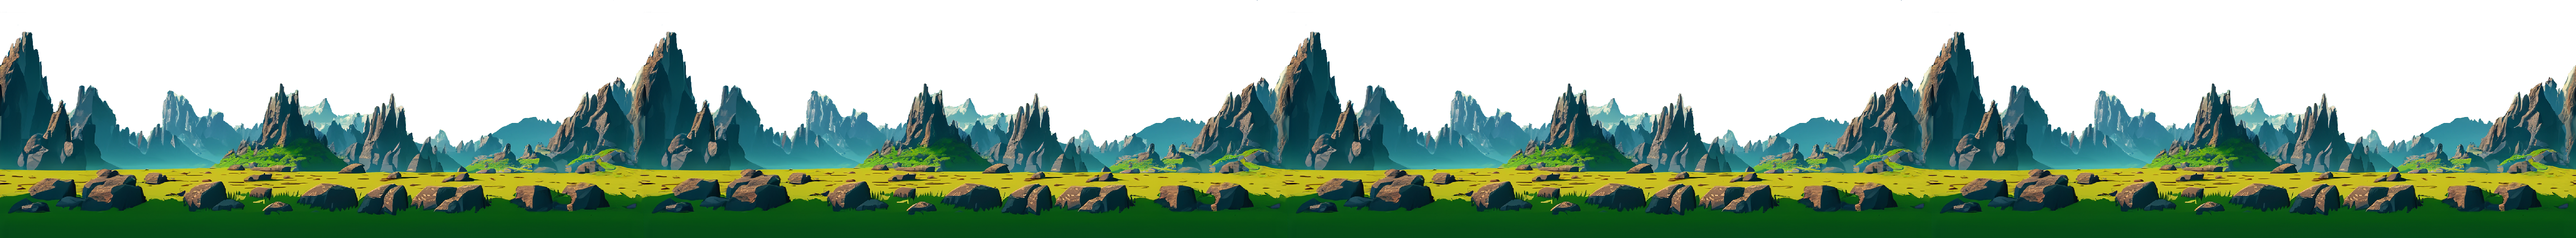
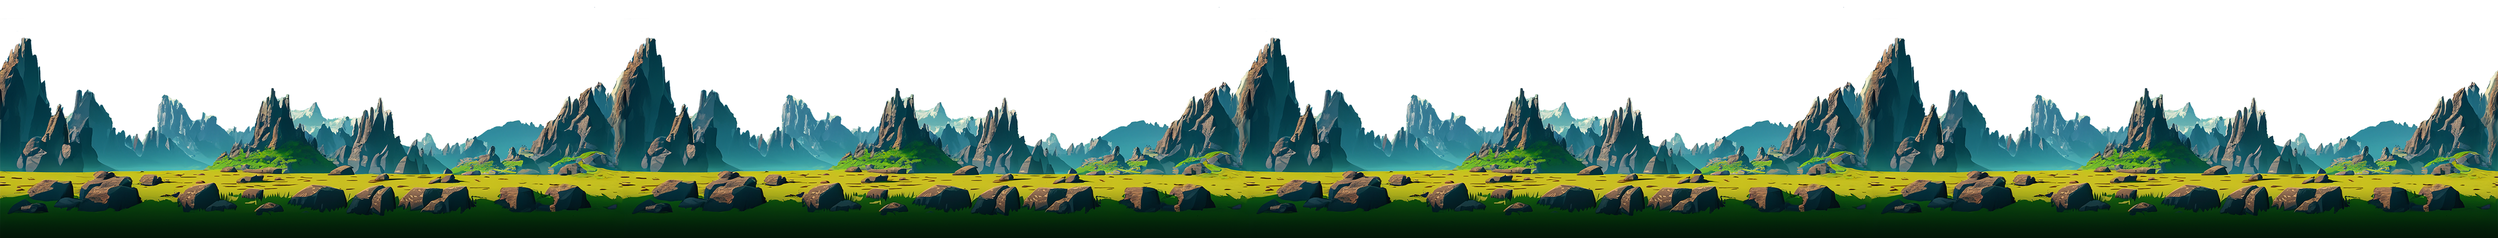
adjusting cloud speeds and layering of background

diff --git a/script/levels/level1.js b/script/levels/level1.js
@@ -1,6 +1,8 @@
 function loadLevel(levelNumber) {
     if (levelNumber === 1) {
+        // constructor (enemies, clouds, backgroundObjects, air)
         return new Level(
+            // enemies
             [
                 new Enemy("ork", 1, 500 + Math.random() * 100),
                 new Enemy("ork", 1, 700 + Math.random() * 100),
@@ -8,15 +10,28 @@ function loadLevel(levelNumber) {
                 new Enemy("troll", 1, 1300 + Math.random() * 100),
                 new Endboss()
             ],
+            //clouds background
             [
-                new Cloud("../img/brawlnbounce/04_background/layers/4_clouds/background_clouds/cloud_bg_1.png", 1255 * 3, 20),
-                new Cloud("../img/brawlnbounce/04_background/layers/4_clouds/background_clouds/cloud_bg_1.png", 1255, 70),
-                new Cloud("../img/brawlnbounce/04_background/layers/4_clouds/background_clouds/cloud_bg_1.png", 10, 0)
+                new Cloud("../img/brawlnbounce/04_background/layers/4_clouds/background_clouds/cloud_bg_1.png", 1255 * 3, -70, "background"),
+                new Cloud("../img/brawlnbounce/04_background/layers/4_clouds/background_clouds/cloud_bg_2.png", 1255, 70, "background"),
+                new Cloud("../img/brawlnbounce/04_background/layers/4_clouds/background_clouds/cloud_bg_3.png", 10, 0, "background"),
+                new Cloud("../img/brawlnbounce/04_background/layers/4_clouds/background_clouds/cloud_bg_1.png", 1255 * 2, -40, "background"),
             ],
+            //clouds
+            [
+                new Cloud("../img/brawlnbounce/04_background/layers/4_clouds/cloud_1.png", 1255, 0, "foreground"),
+                new Cloud("../img/brawlnbounce/04_background/layers/4_clouds/cloud_2.png", 1755, -80, "foreground"),
+                new Cloud("../img/brawlnbounce/04_background/layers/4_clouds/cloud_3.png", 655, 20, "foreground"),
+                new Cloud("../img/brawlnbounce/04_background/layers/4_clouds/cloud_1.png", -1005, -30, "foreground"),
+            ],
+            //backgroundObjects
+            [
+                new backgroundObject("../img/brawlnbounce/04_background/layers/1_first_layer/1.png", -1255),
+            ],
+            //air
             [
                 new backgroundObject("../img/brawlnbounce/04_background/layers/air_day.png", -1255),
-                new backgroundObject("../img/brawlnbounce/04_background/layers/1_first_layer/1.png", -1255),
-            ]
+            ],
         );
     }
     return null;

diff --git a/script/models/cloud.class.js b/script/models/cloud.class.js
@@ -1,20 +1,35 @@
 class Cloud extends MovableObject {
-    height = 200;
-    width= 400;
-    speed = 0.15 + Math.random() * 0.4;
+    height;
+    width;
+    speed;
 
-    constructor(path, xOffset, yOffset) {
+    constructor(path, xOffset, yOffset, position) {
         super();
+        this.setCloudAttributes(position);
         this.loadImage(path)
+        this.position = position;
         this.y = 30 + yOffset;
         this.x = xOffset + Math.random() * 200;
         this.animate();
     }
+
+    setCloudAttributes(position) {
+        if (position === "background") {
+            this.height = 300;
+            this.width= 500;
+            this.speed = 0.005 + Math.random() * 0.4;
+        } else if (position === "foreground") {
+            this.height = 150;
+            this.width= 400;
+            this.speed = 0.01 + Math.random() * 0.5;
+        }
+    }
+
     animate() {
-        this.moveLeft(this.speed);
         setInterval(() => {
-            if (this.x < -this.width) {
-                this.x = 800 + Math.random() * 800;
+            this.moveLeft(this.speed);
+            if (this.x < - 1400) {
+                this.x = 2579;
             }
         }, 1000 / 60);
     }

diff --git a/script/models/world.class.js b/script/models/world.class.js
@@ -44,7 +44,7 @@ class World {
     draw() {
         this.ctx.clearRect(0, 0, this.canvas.width, this.canvas.height); // refresh / clear canvas before
         this.ctx.translate(this.cameraX, 0);
-        this.addObjectsToMap(this.level.backgroundObjects);
+        this.creatingBackground();
         this.addMovableObjects();
         this.ctx.translate(-this.cameraX, 0);
         this.addToMap(this.statusBar);
@@ -52,8 +52,14 @@ class World {
         requestAnimationFrame(this.draw.bind(this)); // bind(this) instead of let self = this and self.draw()
     } 
 
-    addMovableObjects() {
+    creatingBackground() {
+        this.addObjectsToMap(this.level.air);
+        this.addObjectsToMap(this.level.cloudsBackground);
+        this.addObjectsToMap(this.level.backgroundObjects);
         this.addObjectsToMap(this.level.clouds);
+    }
+
+    addMovableObjects() {
         this.addObjectsToMap(this.throwableObjects);
         this.addObjectsToMap(this.level.enemies);
         this.addToMap(this.character);

diff --git a/script/models/level.class.js b/script/models/level.class.js
@@ -1,12 +1,16 @@
 class Level {
     enemies;
+    cloudsBackground;
     clouds;
+    air;
     backgroundObjects;
-    levelEndX = 2100;
+    levelEndX = 2300;
 
-    constructor(enemies, clouds, backgroundObjects) {
+    constructor(enemies, cloudsBackground, clouds, backgroundObjects, air) {
         this.enemies = enemies;
+        this.cloudsBackground = cloudsBackground;
         this.clouds = clouds;
         this.backgroundObjects = backgroundObjects;
+        this.air = air;
     }
 }

diff --git a/script/models/movable_object.class.js b/script/models/movable_object.class.js
@@ -74,8 +74,6 @@ class MovableObject extends DrawableObject {
             if (this.isAboveGround() || this.speedY > 0) {
                 this.y -= this.speedY
                 this.speedY -= this.acceleration; 
-                console.log(this.y);
-                
                 if (this instanceof Character && this.y < 210) {
                     this.attackingFromAbove = true;
                     console.log("attacking from above ground"); // is attacking while jumping

diff --git a/script/models/drawable_object.class.js b/script/models/drawable_object.class.js
@@ -26,7 +26,7 @@ class DrawableObject {
         if (this instanceof Character || this instanceof Enemy || this instanceof Endboss || this instanceof ThrowableObject) {
             ctx.beginPath();
             ctx.lineWidth = "2";
-            ctx.strokeStyle = "blue";
+            ctx.strokeStyle = "transparent";
             ctx.rect(
                 this.x + this.offset.left, 
                 this.y + this.offset.top, 

diff --git a/script/models/character.class.js b/script/models/character.class.js
@@ -10,7 +10,7 @@ class Character extends MovableObject {
     imagesAttack = [];
     isJumping = false;
     x = 290;
-    speedX = 10;
+    speedX = 4;
     speedY = 0;
     acceleration = 0.5;
     yOffset = 0;
